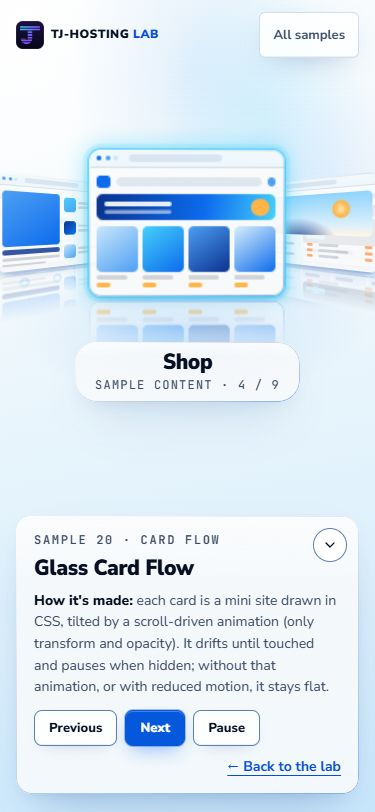
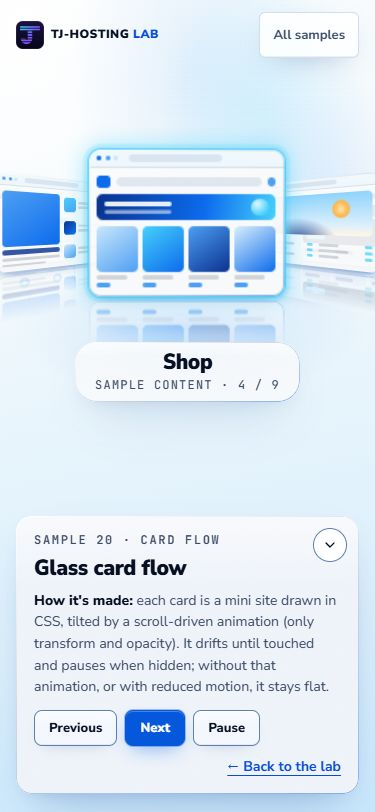
improve(lab-05): S17 keeps one warm note
Per the blind review: amber repeated about a dozen times on the mini sites read as a second accent. The cafe card's sun keeps the honey; the promo sun is cyan glass and the price pills and menu prices are azure and cyan.

diff --git a/samples/glass-card-flow/piece.css b/samples/glass-card-flow/piece.css
@@ -239,11 +239,12 @@
 .sh__head .dot { width: 1em; height: 1em; border-radius: 50%; background: var(--brand-azure); }
 .promo { position: relative; height: 3em; border-radius: 0.7em; background: linear-gradient(100deg, #0a3290, var(--brand-royal) 60%, #46d0fb); overflow: hidden; }
 .promo::before { content: ""; position: absolute; left: 0.8em; top: 0.8em; width: 38%; height: 0.55em; border-radius: 0.3em; background: rgba(255, 255, 255, 0.9); box-shadow: 0 0.9em 0 -0.05em rgba(255, 255, 255, 0.55); }
-.promo::after { content: ""; position: absolute; right: 0.8em; top: 50%; width: 2em; height: 2em; border-radius: 50%; background: var(--honey); transform: translateY(-50%); }
+.promo::after { content: ""; position: absolute; right: 0.8em; top: 50%; width: 2em; height: 2em; border-radius: 50%; background: radial-gradient(circle at 35% 30%, #e0f7ff, #46d0fb 70%); transform: translateY(-50%); }
 .sh__grid { display: grid; grid-template-columns: repeat(4, 1fr); gap: 0.55em; min-height: 0; }
 .prod { display: grid; grid-template-rows: 1fr auto auto; gap: 0.35em; min-height: 0; }
 .prod .ln { height: 0.45em; }
-.price { width: 1.5em; height: 0.6em; border-radius: 0.3em; background: var(--honey); }
+/* one warm note only (lab-05 P5 review): the cafe's sun keeps the honey; prices and ticks are azure and cyan */
+.price { width: 1.5em; height: 0.6em; border-radius: 0.3em; background: #4d9ff3; }
 
 /* cafe */
 .mk--cafe { grid-template-rows: 3.4fr 2fr; }
@@ -256,7 +257,7 @@
 }
 .cafe__menu { display: grid; grid-template-columns: 1fr 1fr; gap: 1.2em; }
 .cafe__menu .row { display: grid; grid-template-columns: 1fr 1.3em; gap: 0.5em; align-items: center; }
-.cafe__menu .ln.pr { background: rgba(255, 138, 61, 0.7); }
+.cafe__menu .ln.pr { background: rgba(70, 208, 251, 0.75); }
 .cafe__menu .mk__col { gap: 0.55em; align-content: center; }
 
 /* agency */

diff --git a/evidence/lab-05/samples/glass-card-flow/check.md b/evidence/lab-05/samples/glass-card-flow/check.md
@@ -1,35 +1,34 @@
 # check-sample: glass-card-flow — PASS
 
-2026-10-28T04:02:54.427Z · Chromium WebGL: ANGLE (AMD, AMD Radeon (TM) Graphics (0x000015E7) Direct3D11 vs_5_0 ps_5_0, D3D11) · Firefox: not run (browserType.launch: spawn UNKNOWN)
+2026-10-28T10:25:22.571Z · Chromium WebGL: ANGLE (AMD, AMD Radeon (TM) Graphics (0x000015E7) Direct3D11 vs_5_0 ps_5_0, D3D11) · Firefox: not run (browserType.launch: spawn UNKNOWN)
 
 ## Notes
 - loads 8 local files: samples/glass-card-flow/index.html, css/glass.css, css/lab.css, css/sample.css, samples/glass-card-flow/piece.css, js/early.js, samples/glass-card-flow/piece.js, js/lab.js
 - Chromium 141.0.7390.37, WebGL renderer: ANGLE (AMD, AMD Radeon (TM) Graphics (0x000015E7) Direct3D11 vs_5_0 ps_5_0, D3D11)
-- frame time: median 16.7 ms, p95 16.8 ms at 1440
 - Firefox: not run (browserType.launch: spawn UNKNOWN)
 
 ## Motion
 - reduced motion: {"anims":[],"loops":[],"rafPerSecond":0}
 - hidden tab: {"movingBefore":true,"hiddenRafIn1500ms":0,"hiddenAnims":[],"hiddenLoops":[],"resumed":true}
-- frame time: {"median":16.7,"p95":16.8,"frames":301} (gpu GL)
+- frame time: not measured (--no-perf)
 
 ## Shell contrast (Chromium)
 width | selector | # | polarity | text | worst behind | ratio | need
 ---|---|---|---|---|---|---|---
-1440 | .sample-info .eyebrow | 0 | dark | rgb(59, 74, 102) | rgb(246, 249, 251) | 8.43 | 4.5
-1440 | .sample-info h1 | 0 | dark | rgb(7, 16, 34) | rgb(243, 247, 249) | 17.61 | 3
-1440 | .sample-info .how | 0 | dark | rgb(59, 74, 102) | rgb(243, 246, 249) | 8.21 | 4.5
-1440 | .controls .back | 0 | dark | rgb(6, 75, 219) | rgb(242, 247, 249) | 6.40 | 4.5
-1440 | .controls .btn | 0 | dark | rgb(7, 16, 34) | rgb(251, 252, 252) | 18.47 | 4.5
+1440 | .sample-info .eyebrow | 0 | dark | rgb(59, 74, 102) | rgb(242, 245, 249) | 8.15 | 4.5
+1440 | .sample-info h1 | 0 | dark | rgb(7, 16, 34) | rgb(238, 242, 248) | 16.90 | 3
+1440 | .sample-info .how | 0 | dark | rgb(59, 74, 102) | rgb(237, 241, 247) | 7.86 | 4.5
+1440 | .controls .back | 0 | dark | rgb(6, 75, 219) | rgb(237, 242, 247) | 6.14 | 4.5
+1440 | .controls .btn | 0 | dark | rgb(7, 16, 34) | rgb(243, 247, 253) | 17.66 | 4.5
 1440 | .controls .btn | 1 | light | rgb(255, 255, 255) | rgb(5, 88, 220) | 6.11 | 4.5
-1440 | .controls .btn | 2 | dark | rgb(7, 16, 34) | rgb(251, 252, 252) | 18.47 | 4.5
+1440 | .controls .btn | 2 | dark | rgb(7, 16, 34) | rgb(243, 247, 253) | 17.66 | 4.5
 1440 | .hint | 0 | dark | rgb(59, 74, 102) | rgb(236, 245, 249) | 8.06 | 4.5
-375 | .sample-info .eyebrow | 0 | dark | rgb(59, 74, 102) | rgb(247, 249, 251) | 8.44 | 4.5
-375 | .sample-info h1 | 0 | dark | rgb(7, 16, 34) | rgb(244, 247, 250) | 17.66 | 3
-375 | .sample-info .how | 0 | dark | rgb(59, 74, 102) | rgb(242, 246, 249) | 8.20 | 4.5
-375 | .controls .back | 0 | dark | rgb(6, 75, 219) | rgb(240, 245, 249) | 6.30 | 4.5
-375 | .controls .btn | 0 | dark | rgb(7, 16, 34) | rgb(251, 252, 252) | 18.47 | 4.5
+375 | .sample-info .eyebrow | 0 | dark | rgb(59, 74, 102) | rgb(243, 245, 249) | 8.16 | 4.5
+375 | .sample-info h1 | 0 | dark | rgb(7, 16, 34) | rgb(239, 242, 248) | 16.93 | 3
+375 | .sample-info .how | 0 | dark | rgb(59, 74, 102) | rgb(237, 241, 247) | 7.86 | 4.5
+375 | .controls .back | 0 | dark | rgb(6, 75, 219) | rgb(214, 228, 247) | 5.37 | 4.5
+375 | .controls .btn | 0 | dark | rgb(7, 16, 34) | rgb(243, 247, 253) | 17.66 | 4.5
 375 | .controls .btn | 1 | light | rgb(255, 255, 255) | rgb(5, 88, 220) | 6.11 | 4.5
-375 | .controls .btn | 2 | dark | rgb(7, 16, 34) | rgb(251, 252, 252) | 18.47 | 4.5
+375 | .controls .btn | 2 | dark | rgb(7, 16, 34) | rgb(243, 247, 253) | 17.66 | 4.5
 
 Screenshots: chromium-1440.jpg, chromium-375.jpg, reduced-1440.jpg (sheet.jpg: all of them, not committed).

diff --git a/TASKS-lab-05.md b/TASKS-lab-05.md
@@ -180,10 +180,10 @@ One Opus 5.5 sub-agent, images only: tj-hosting.ca's DS v9 shots and banner, the
 6. (low) in-art controls: pressed toggles **fixed 10:24Z** for every page in `css/lab.css` (ink text in a 2px royal ring, so only the primary is blue-filled); liquid-glass-lens's capsule tab bar: open.
 7. (low) two frame-bar colours: **fixed 10:24Z** for liquid-glass-lens (mid-dark art, now the navy bar); the white bar stays on day screens whose art is light.
 8. (low) back link inline on some phones, own line on others: **fixed 10:24Z** in `css/sample.css`: own line on every phone.
-9. (low) panel greys over dark windows: **fixed 10:24Z** in `css/sample.css`: the panel's tint is 0.97 white-blue (sampled over three dark windows: about #e3e9f0 before, #eaeef6 after).
+9. (low) panel greys over dark windows: **fixed 10:24Z** in `css/sample.css`: the panel's tint is 0.97 white-blue (the reviewer sampled about #dee3ee over dark windows; sampled again over three: about #eaeef6).
 10. (low) coral-ink soft edges: open.
 11. (low) icon-micro-set navy burst specks: **fixed 10:24Z**: bursts are cyan and azure only.
-12. (low) glass-card-flow amber as a second accent: open.
+12. (low) glass-card-flow amber as a second accent: **fixed 10:26Z**: the cafe card's sun keeps the honey; the promo sun is cyan glass and the price pills and menu prices are azure and cyan.
 
 ## Incidents
 
